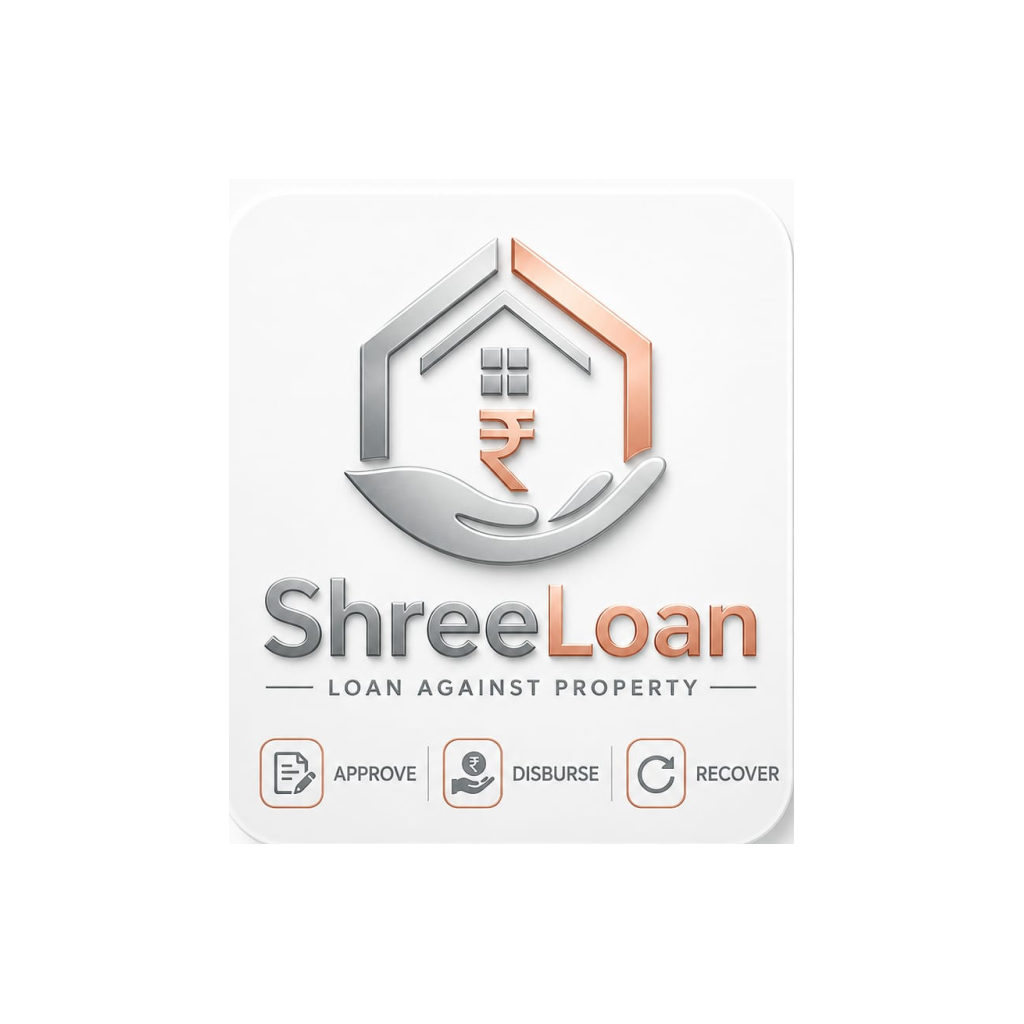
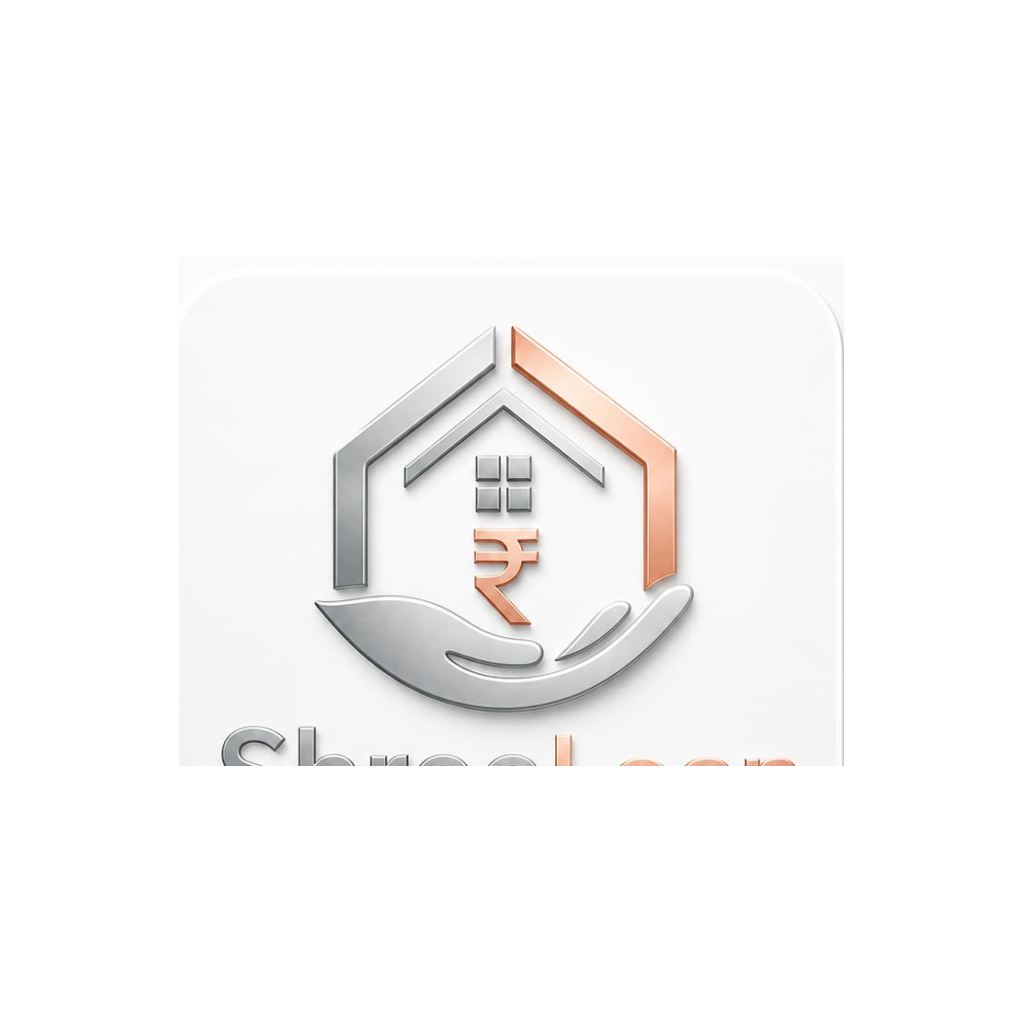
fixed changes

Changed region(s): [[0.2188, 0.2188, 0.7812, 0.8438]]

diff --git a/app/src/screens/admin/LoanDetailScreen.js b/app/src/screens/admin/LoanDetailScreen.js
@@ -485,11 +485,11 @@ const styles = StyleSheet.create({
   label: { fontFamily: fonts.semiBold, fontSize: fontSize.base, color: colors.text },
   field: { fontFamily: fonts.regular, fontSize: fontSize.base, color: colors.text, marginBottom: 8 },
   note: { fontFamily: fonts.regular, fontSize: fontSize.sm, color: colors.muted, marginTop: 16 },
-  actionContainer: { flexDirection: 'row', gap: 12, marginTop: 16, marginBottom: 24 },
-  rejectBtn: { flex: 1, flexDirection: 'row', alignItems: 'center', justifyContent: 'center', gap: 8, backgroundColor: '#FEF2F2', paddingVertical: 14, borderRadius: 12, borderWidth: 1, borderColor: colors.error },
-  rejectBtnText: { fontFamily: fonts.semiBold, fontSize: fontSize.base, color: colors.error },
-  approveBtn: { flex: 1, flexDirection: 'row', alignItems: 'center', justifyContent: 'center', gap: 8, backgroundColor: colors.success, paddingVertical: 14, borderRadius: 12 },
-  approveBtnText: { fontFamily: fonts.semiBold, fontSize: fontSize.base, color: colors.white },
+  actionContainer: { flexDirection: 'row', flexWrap: 'wrap', gap: 12, marginTop: 16, marginBottom: 24 },
+  rejectBtn: { flex: 1, minWidth: 140, flexDirection: 'row', alignItems: 'center', justifyContent: 'center', gap: 8, backgroundColor: '#FEF2F2', paddingVertical: 14, borderRadius: 12, borderWidth: 1, borderColor: colors.error },
+  rejectBtnText: { fontFamily: fonts.semiBold, fontSize: fontSize.base, color: colors.error, textAlign: 'center' },
+  approveBtn: { flex: 1, minWidth: 140, flexDirection: 'row', alignItems: 'center', justifyContent: 'center', gap: 8, backgroundColor: colors.success, paddingVertical: 14, borderRadius: 12 },
+  approveBtnText: { fontFamily: fonts.semiBold, fontSize: fontSize.base, color: colors.white, textAlign: 'center' },
   modalOverlay: { flex: 1, backgroundColor: 'rgba(0,0,0,0.5)', justifyContent: 'center', padding: 20 },
   modalContent: { backgroundColor: colors.white, borderRadius: 16, padding: 20 },
   modalTitle: { fontFamily: fonts.bold, fontSize: 18, color: colors.text, marginBottom: 8 },

diff --git a/app/process_logo.js b/app/process_logo.js
@@ -9,6 +9,11 @@ async function processLogo() {
     const image = await Jimp.read(inputPath);
     console.log(`Original Size: ${image.bitmap.width}x${image.bitmap.height}`);
     
+    // Crop the top part to remove the text at the bottom.
+    // The original is 723x851. The emblem looks to be in the top 550 pixels.
+    // We crop (x=0, y=0, w=723, h=550)
+    image.crop({ x: 0, y: 0, w: image.bitmap.width, h: Math.floor(image.bitmap.height * 0.65) });
+    
     // Create a square canvas matching the max dimension or 1024
     const canvasSize = 1024;
     // Scale image down so it takes about 60-70% of the canvas, ensuring it fits perfectly inside adaptive icon masks
@@ -30,7 +35,8 @@ async function processLogo() {
     await background.write('./assets/adaptive-icon.png');
     await background.write('./assets/splash.png');
     await background.write('./assets/favicon.png');
-    console.log("Images padded and saved successfully!");
+    
+    console.log("Images cropped (text removed), padded, and saved successfully!");
   } catch (error) {
     console.error("Error processing image:", error);
   }

diff --git a/backend/src/routes/admin.js b/backend/src/routes/admin.js
@@ -306,14 +306,16 @@ router.post('/loans/:loanId/disburse', async (req, res) => {
 
   const updates = { disbursements, status: 'active' };
   
-  // Generate officialLoanId on first disbursement if not exists
-  if (!loan.officialLoanId) {
-    const seq = await db.getNextLoanSeq('official-loans');
-    updates.officialLoanId = `SL-${seq.toString().padStart(5, '0')}`;
+  // Generate displayLoanId on first disbursement if not exists
+  if (!loan.displayLoanId && !loan.officialLoanId) {
+    const { generateDisplayLoanId } = require('../services/loanIdService');
+    updates.displayLoanId = await generateDisplayLoanId();
+  } else if (!loan.displayLoanId && loan.officialLoanId) {
+    updates.displayLoanId = loan.officialLoanId;
   }
 
   await db.updateLoan(loan.loanId, updates);
-  res.json({ message: 'Disbursement recorded', officialLoanId: updates.officialLoanId || loan.officialLoanId });
+  res.json({ message: 'Disbursement recorded', displayLoanId: updates.displayLoanId || loan.displayLoanId });
 });
 
 router.post('/loans/:loanId/approve', async (req, res) => {

diff --git a/backend/src/routes/employee.js b/backend/src/routes/employee.js
@@ -4,7 +4,7 @@ const db = require('../services/mongoService');
 const { verifyToken } = require('../middleware/auth');
 const { requireRole } = require('../middleware/roleCheck');
 const { auditLog } = require('../middleware/auditMiddleware');
-const { generateLoanId } = require('../services/loanIdService');
+const { generateAppId } = require('../services/loanIdService');
 const multer = require('multer');
 const { uploadBuffer, getPresignedUrl } = require('../services/localFileStorageService');
 
@@ -38,11 +38,12 @@ router.get('/loans', async (req, res) => {
 
 router.post('/loans', async (req, res) => {
   const user = await db.getUserById(req.user.userId);
-  const loanId = await generateLoanId();
+  const appId = await generateAppId();
   const now = new Date().toISOString();
   const loan = {
-    loanId,
-    applicationNumber: loanId,
+    loanId: appId,
+    applicationNumber: appId,
+    displayLoanId: null,
     employeeId: user.userId,
     adminId: user.createdBy,
     status: 'draft',

diff --git a/app/src/components/LoanDetailsView.js b/app/src/components/LoanDetailsView.js
@@ -37,8 +37,8 @@ export default function LoanDetailsView({ loan }) {
           <Ionicons name="person" size={18} color={colors.dark} />
           <Text style={rv.section}>Application Details</Text>
         </View>
-        <Row label="Application No" value={loan.applicationNumber} />
-        <Row label="Official Loan ID" value={loan.officialLoanId} />
+        <Row label="Application No" value={loan.applicationNumber || loan.loanId} />
+        <Row label="Loan ID" value={loan.displayLoanId || loan.officialLoanId || 'Pending Disbursement'} />
         {loan.internalRemarks && <Row label="Internal Remarks" value={loan.internalRemarks} />}
         {loan.riskAssessment && <Row label="Risk Assessment" value={loan.riskAssessment} />}
       </View>

diff --git a/app/src/screens/admin/DashboardScreen.js b/app/src/screens/admin/DashboardScreen.js
@@ -117,7 +117,7 @@ export default function AdminDashboard({ navigation }) {
               <Card>
                 <View style={styles.loanRow}>
                   <View style={styles.loanLeft}>
-                    <Text style={styles.loanId}>{loan.loanId}</Text>
+                    <Text style={styles.loanId}>{loan.displayLoanId || loan.applicationNumber || loan.loanId}</Text>
                     <Text style={styles.ownerName}>{loan.ownerName || '—'}</Text>
                     {loan.loanAmount && <Text style={styles.amount}>Principal: ₹{Number(loan.loanAmount).toLocaleString('en-IN')}</Text>}
                   </View>

diff --git a/app/src/screens/admin/LoanListScreen.js b/app/src/screens/admin/LoanListScreen.js
@@ -95,7 +95,7 @@ export default function AdminLoanListScreen({ navigation }) {
               <Card>
                 <View style={styles.row}>
                   <View style={styles.left}>
-                    <Text style={styles.id}>{item.loanId}</Text>
+                    <Text style={styles.id}>{item.displayLoanId || item.applicationNumber || item.loanId}</Text>
                     <Text style={styles.owner}>{item.ownerName || '—'}</Text>
                     {item.loanAmount ? (
                       <Text style={styles.amount}>Principal: ₹{Number(item.loanAmount).toLocaleString('en-IN')}</Text>

diff --git a/app/src/screens/employee/DashboardScreen.js b/app/src/screens/employee/DashboardScreen.js
@@ -77,7 +77,7 @@ export default function EmployeeDashboard({ navigation }) {
             <Card>
               <View style={styles.loanRow}>
                 <View style={styles.loanLeft}>
-                  <Text style={styles.loanId}>{loan.loanId}</Text>
+                  <Text style={styles.loanId}>{loan.displayLoanId || loan.applicationNumber || loan.loanId}</Text>
                   <Text style={styles.ownerName}>{loan.ownerName || 'No owner yet'}</Text>
                   {loan.loanAmount ? (
                     <Text style={styles.amount}>₹{Number(loan.loanAmount).toLocaleString('en-IN')}</Text>

diff --git a/app/src/screens/employee/LoanListScreen.js b/app/src/screens/employee/LoanListScreen.js
@@ -102,7 +102,7 @@ export default function LoanListScreen({ navigation }) {
             <Card>
               <View style={styles.row}>
                 <View style={styles.left}>
-                  <Text style={styles.id}>{item.loanId}</Text>
+                  <Text style={styles.id}>{item.displayLoanId || item.applicationNumber || item.loanId}</Text>
                   <Text style={styles.owner}>{item.ownerName || '—'}</Text>
                   {item.loanAmount ? (
                     <Text style={styles.amount}>₹{Number(item.loanAmount).toLocaleString('en-IN')}</Text>

diff --git a/backend/src/services/loanIdService.js b/backend/src/services/loanIdService.js
@@ -1,8 +1,13 @@
 const { getNextLoanSeq } = require('./mongoService');
 
-async function generateLoanId() {
-  const seq = await getNextLoanSeq('placeholder');
-  return `LN-${seq}`;
+async function generateAppId() {
+  const seq = await getNextLoanSeq('app');
+  return `APP-${seq}`;
 }
 
-module.exports = { generateLoanId };
+async function generateDisplayLoanId() {
+  const seq = await getNextLoanSeq('loan');
+  return `SL-${seq}`;
+}
+
+module.exports = { generateAppId, generateDisplayLoanId };

diff --git a/app/src/components/CustomSplash.js b/app/src/components/CustomSplash.js
@@ -16,7 +16,7 @@ export default function CustomSplash({ onDone }) {
   return (
     <View style={styles.root}>
       <Animated.View style={{ opacity }}>
-        <Image source={require('../../assets/silvercoin-logo.png')} style={styles.logo} resizeMode="contain" />
+        <Image source={require('../../assets/loanApp.png')} style={styles.logo} resizeMode="contain" />
       </Animated.View>
     </View>
   );

diff --git a/app/src/components/SilvercoinLogoMark.js b/app/src/components/SilvercoinLogoMark.js
@@ -1,7 +1,7 @@
 import React from 'react';
 import { Image } from 'react-native';
 
-const logo = require('../../assets/silvercoin-logo.png');
+const logo = require('../../assets/loanApp.png');
 
 export default function SilvercoinLogoMark({ size = 56, style }) {
   return (
